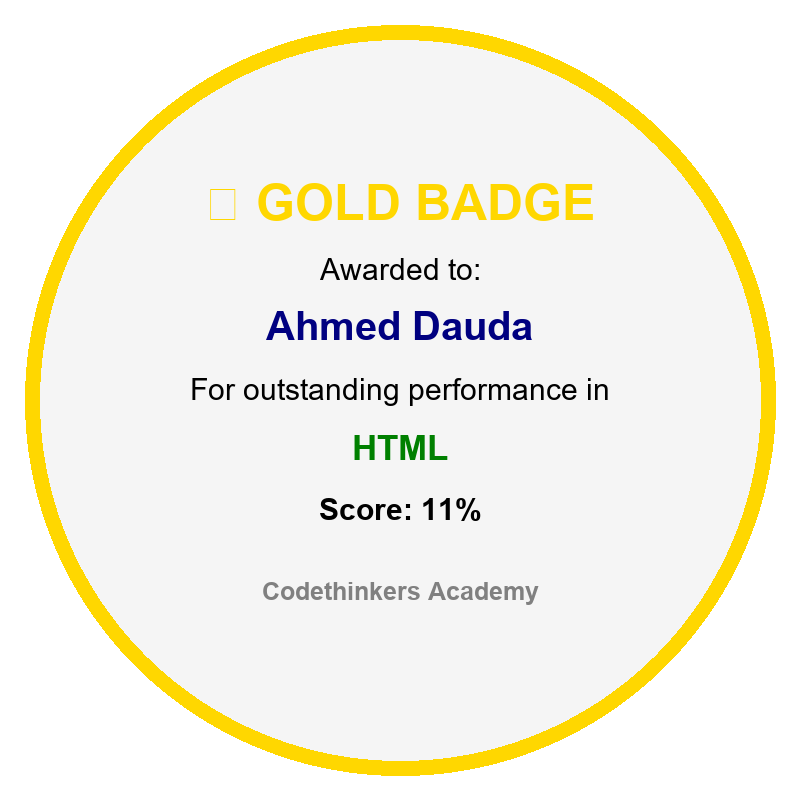
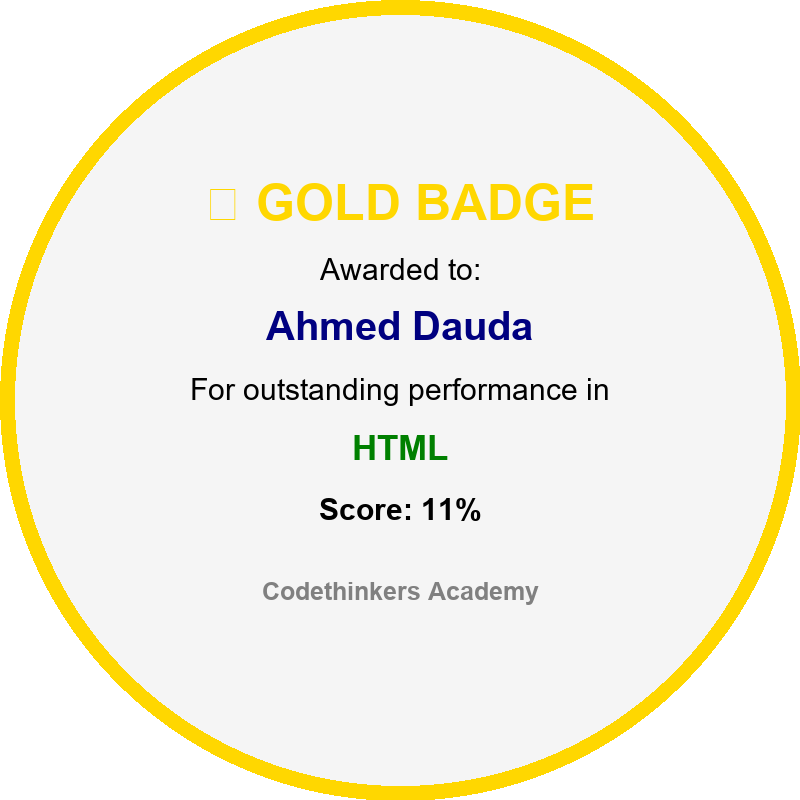
Remove accidentally added temp-clean directory

Changed region(s): [[0.0, 0.0, 1.0, 1.0]]

diff --git a/sms/views.py b/sms/views.py
@@ -1422,35 +1422,13 @@ from django.http import HttpResponse
 import os
 
 # Register fonts
-pdfmetrics.registerFont(TTFont('Arial-Bold', 'arialbd.ttf'))
-pdfmetrics.registerFont(TTFont('Arial', 'arial.ttf'))
-# Register custom font
-# Register fonts
-pdfmetrics.registerFont(TTFont('Arial-Bold', 'arialbd.ttf'))
-pdfmetrics.registerFont(TTFont('Arial', 'arial.ttf'))
-
 from PIL import Image, ImageDraw, ImageFont
 from django.http import HttpResponse
 from django.shortcuts import get_object_or_404
-import os
-from PIL import Image, ImageDraw, ImageFont
-from django.shortcuts import get_object_or_404
-from django.http import HttpResponse
 from django.conf import settings
 import os
 
-from PIL import Image, ImageDraw, ImageFont
-from django.http import HttpResponse
-from django.shortcuts import get_object_or_404
-import os
-from django.conf import settings
 def download_and_share_badge(request, student_id, course_id, rank):
-    from PIL import Image, ImageDraw, ImageFont
-    import os
-    from django.conf import settings
-    from django.shortcuts import get_object_or_404
-    from django.http import HttpResponse
-
     # --- Fetch objects ---
     result = get_object_or_404(Result, student__id=student_id, exam__id=course_id)
     course = get_object_or_404(Course, id=course_id)
@@ -1474,22 +1452,17 @@ def download_and_share_badge(request, student_id, course_id, rank):
 
     # --- Image settings ---
     size = 800
-    center = (size // 2, size // 2)
-    badge_radius = size // 2 - 25
+    center = size // 2
+    img = Image.new("RGBA", (size, size), (255, 255, 255, 0))  # fully transparent background
+    draw = ImageDraw.Draw(img)
 
-    # --- Base image with full transparency ---
-    img = Image.new("RGBA", (size, size), (0, 0, 0, 0))  # fully transparent
+    # --- Circular badge ---
+    draw.ellipse((0, 0, size, size), fill=(245, 245, 245), outline=badge_color, width=15)
 
-    # --- Circular badge layer ---
-    badge_layer = Image.new("RGBA", (size, size), (0, 0, 0, 0))
-    draw = ImageDraw.Draw(badge_layer)
-    draw.ellipse(
-        (center[0]-badge_radius, center[1]-badge_radius,
-         center[0]+badge_radius, center[1]+badge_radius),
-        fill=(245, 245, 245),
-        outline=badge_color,
-        width=15
-    )
+    # --- Circular mask for edges ---
+    mask = Image.new("L", (size, size), 0)
+    mask_draw = ImageDraw.Draw(mask)
+    mask_draw.ellipse((0, 0, size, size), fill=255)
 
     # --- Logo watermark ---
     logo_path = os.path.join(settings.STATIC_ROOT, "images", "logo.png")
@@ -1499,62 +1472,65 @@ def download_and_share_badge(request, student_id, course_id, rank):
         logo = logo.resize((logo_size, logo_size))
         alpha = logo.split()[3].point(lambda i: i * 0.1)
         logo.putalpha(alpha)
-        badge_layer.paste(logo, (center[0]-logo_size//2, center[1]-logo_size//2), mask=logo)
+        img.paste(logo, (center - logo_size // 2, center - logo_size // 2), mask=logo)
 
-    # --- Fonts ---
-    font_path_bold = os.path.join(settings.STATIC_ROOT, "fonts", "arialbd.ttf")
-    font_path = os.path.join(settings.STATIC_ROOT, "fonts", "arial.ttf")
-    title_font = ImageFont.truetype(font_path_bold, 50)
-    subtitle_font = ImageFont.truetype(font_path, 30)
-    name_font = ImageFont.truetype(font_path_bold, 40)
-    course_font = ImageFont.truetype(font_path_bold, 35)
-    score_font = ImageFont.truetype(font_path_bold, 30)
-    footer_font = ImageFont.truetype(font_path_bold, 25)
+    # --- Fonts from static folder ---
+    font_bold_path = os.path.join(settings.STATIC_ROOT, "fonts", "arialbd.ttf")
+    font_regular_path = os.path.join(settings.STATIC_ROOT, "fonts", "arial.ttf")
+
+    title_font = ImageFont.truetype(font_bold_path, 50)
+    subtitle_font = ImageFont.truetype(font_regular_path, 30)
+    name_font = ImageFont.truetype(font_bold_path, 40)
+    course_font = ImageFont.truetype(font_bold_path, 35)
+    score_font = ImageFont.truetype(font_bold_path, 30)
+    footer_font = ImageFont.truetype(font_bold_path, 25)
 
     # --- Draw texts ---
-    y_start = center[1] - 180
+    y_start = center - 180
     spacing = 60
-    draw.text((center[0], y_start), f"{medal_emoji} {badge_name}", font=title_font, fill=badge_color, anchor="ms")
-    draw.text((center[0], y_start + spacing), "Awarded to:", font=subtitle_font, fill=(0,0,0), anchor="ms")
-    draw.text((center[0], y_start + spacing*2), f"{result.student.first_name} {result.student.last_name}", font=name_font, fill=(0,0,128), anchor="ms")
-    draw.text((center[0], y_start + spacing*3), "For outstanding performance in", font=subtitle_font, fill=(0,0,0), anchor="ms")
-    draw.text((center[0], y_start + spacing*4), f"{course.course_name}", font=course_font, fill=(0,128,0), anchor="ms")
-    draw.text((center[0], y_start + spacing*5), f"Score: {result.marks}%", font=score_font, fill=(0,0,0), anchor="ms")
-    draw.text((center[0], y_start + spacing*6 + 20), "Codethinkers Academy", font=footer_font, fill=(128,128,128), anchor="ms")
+    draw.text((center, y_start), f"{medal_emoji} {badge_name}", font=title_font, fill=badge_color, anchor="ms")
+    draw.text((center, y_start + spacing), "Awarded to:", font=subtitle_font, fill=(0,0,0), anchor="ms")
+    draw.text((center, y_start + spacing*2), f"{result.student.first_name} {result.student.last_name}", font=name_font, fill=(0,0,128), anchor="ms")
+    draw.text((center, y_start + spacing*3), "For outstanding performance in", font=subtitle_font, fill=(0,0,0), anchor="ms")
+    draw.text((center, y_start + spacing*4), f"{course.course_name}", font=course_font, fill=(0,128,0), anchor="ms")
+    draw.text((center, y_start + spacing*5), f"Score: {result.marks}%", font=score_font, fill=(0,0,0), anchor="ms")
+    draw.text((center, y_start + spacing*6 + 20), "Codethinkers Academy", font=footer_font, fill=(128,128,128), anchor="ms")
 
-    # --- Apply circular mask ---
-    mask = Image.new("L", (size, size), 0)
-    mask_draw = ImageDraw.Draw(mask)
-    mask_draw.ellipse((0, 0, size, size), fill=255)
-    img.paste(badge_layer, (0, 0), mask=mask)
+    # --- Apply circular mask for transparent edges ---
+    circular_img = Image.new("RGBA", (size, size), (255,255,255,0))
+    circular_img.paste(img, (0,0), mask=mask)
 
     # --- Save badge ---
     badge_dir = os.path.join(settings.MEDIA_ROOT, "badges")
     os.makedirs(badge_dir, exist_ok=True)
     filename = f"{result.student.first_name}_{badge_name}.png"
     badge_path = os.path.join(badge_dir, filename)
-    img.save(badge_path, "PNG")  # fully transparent corners
+    circular_img.save(badge_path, "PNG")
 
-    # --- Badge URL ---
+    # --- Badge URL for sharing ---
     badge_url = request.build_absolute_uri(os.path.join(settings.MEDIA_URL, "badges", filename))
 
     # --- Social share links ---
     share_links = {
-        "whatsapp": f"https://wa.me/?text=I earned my {badge_name} in {course.course_name} at Codethinkers! Check it out: {badge_url}",
+        "whatsapp": f"https://wa.me/?text=I earned my {badge_name} in {course.course_name} at Codethinkers! Check out my badge: {badge_url}",
         "twitter": f"https://twitter.com/intent/tweet?text=I earned my {badge_name} in {course.course_name} at Codethinkers! 🎓 {badge_url}",
         "linkedin": f"https://www.linkedin.com/sharing/share-offsite/?url={badge_url}",
         "facebook": f"https://www.facebook.com/sharer/sharer.php?u={badge_url}",
     }
 
-    # --- HTML page ---
+    # --- HTML page with circular preview ---
     html_content = f"""
     <html>
     <head>
         <title>{badge_name} Badge</title>
         <style>
             body {{ font-family: Arial, sans-serif; text-align: center; padding: 50px; background: #f9f9f9; }}
-            .badge-img {{ border-radius: 50%; max-width: 400px; box-shadow: 0 8px 20px rgba(0,0,0,0.3); }}
-            .share-btn {{ margin: 10px; padding: 10px 20px; border-radius: 5px; color: white; text-decoration: none; }}
+            .badge-img {{
+                border-radius: 50%;
+                box-shadow: 0 8px 20px rgba(0,0,0,0.3);
+                max-width: 400px;
+            }}
+            .share-btn {{ margin: 10px; padding: 10px 20px; border: none; border-radius: 5px; color: white; text-decoration: none; }}
             .whatsapp {{ background-color: #25D366; }}
             .twitter {{ background-color: #1DA1F2; }}
             .linkedin {{ background-color: #0077B5; }}
